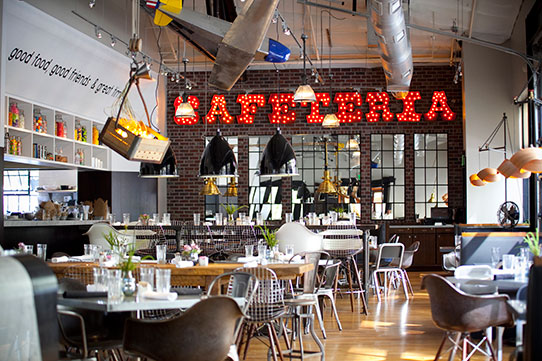
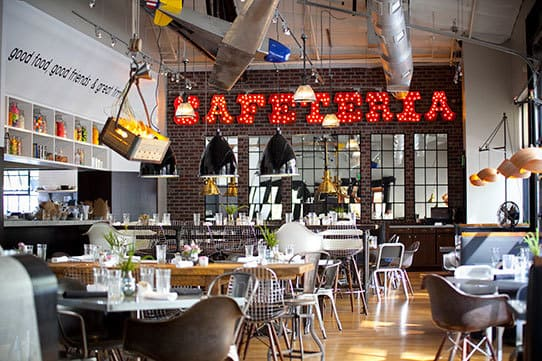
Compresion de imagenes

diff --git a/css/media_queries.css b/css/media_queries.css
@@ -2,19 +2,10 @@
     /*********************************************************
                 MAIN
     *********************************************************/
-    .main__text--title {
-        font-size: 9em;
-        border-bottom: 6px solid #fff;
-        padding-bottom: 20px;
-        margin-bottom: 20px;
-    }
-    .main__text--subtitle {
-        font-size: 4.5em;
-    }
+    .main__text--title { font-size: 9em; }
+    .main__text--subtitle { font-size: 4.5em; }
     /*********************************************************
                 GALLERY
     *********************************************************/
-    .gallery__title--text {
-        font-size: 4em;
-    }
+    .gallery__title--text { font-size: 4em; }
 }
